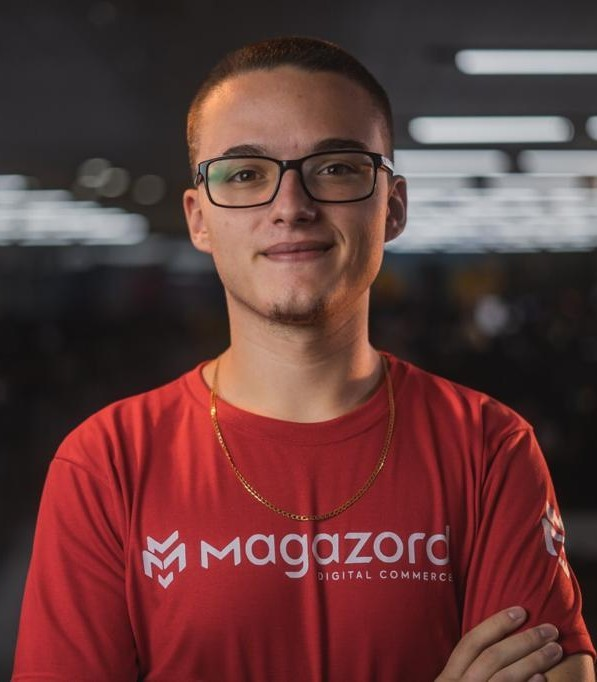
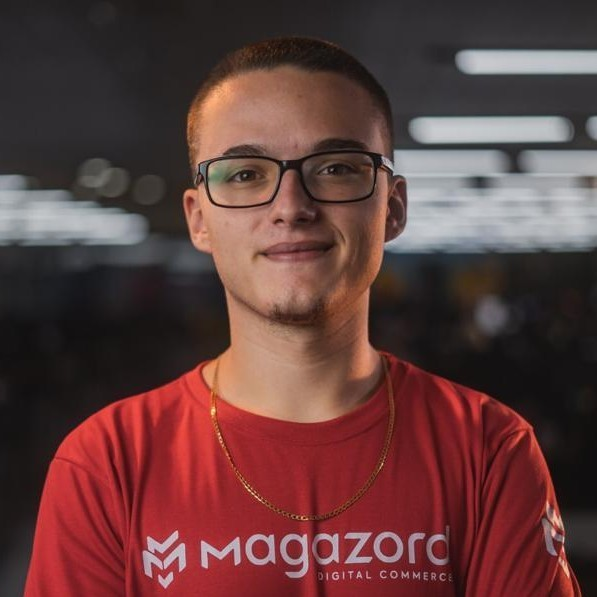
modified:   assets/css/index.css 	modified:   assets/img/euMaga.jpeg

diff --git a/assets/css/index.css b/assets/css/index.css
@@ -190,7 +190,7 @@ div#sobre {
     display: flex;
     justify-content: space-between;
     width: 100%;
-    height: 600px;
+    height: auto;
     background-color: var(--cor-fundo-claro);
     padding: 50px 200px;
     align-items: center;
@@ -198,17 +198,12 @@ div#sobre {
 
 div#sobre div.imgSobre {
     width: 400px;
-    max-height: 400px;
+    height: 400px;
     overflow: hidden;
     border-radius: 15px;
     box-shadow: 0px 0px 15px 5px rgba(0, 0, 0, 0.4);
     display: flex;
-    position: relative;
-    margin: auto 30px;
     object-fit: cover;
-    justify-content: center;
-    align-items: center;
-
 }
 
 div#sobre div.imgSobre:hover {
@@ -217,14 +212,13 @@ div#sobre div.imgSobre:hover {
 }
 
 div#sobre div.imgSobre img {
-    display: flex;
     width: 100%;
+    height: 100%;
 }
 
 div#sobre div.textSobre {
-    width: 60%;
+    max-width: 600px;
     padding: 10px;
-    margin: auto 30px;
 }
 
 div#sobre div.textSobre h2 {
@@ -505,7 +499,7 @@ div#contato div.textContato a.cardContato img {
     margin: 20px;
 }
 
-body hr.section_footer{
+body hr.section_footer {
     width: 80%;
     background-color: #0000007b;
     height: 1px;
@@ -515,7 +509,7 @@ body hr.section_footer{
     margin: auto;
 }
 
-footer{
+footer {
     width: 100%;
     height: 200px;
     top: 0;
@@ -525,12 +519,13 @@ footer{
     align-items: center;
     padding: 50px 200px;
 }
-footer img.logo{
+
+footer img.logo {
     width: 177.7px;
     height: 50px;
 }
 
-footer div.direitos p{
+footer div.direitos p {
     color: var(--cor-preto);
     font-family: var(--regular);
 }
@@ -544,6 +539,62 @@ footer div.direitos p{
 
 
 @media (max-width: 1100px) {
+
+
+    header,
+    div#home,
+    div#conhecimentos,
+    div#contato,
+    footer {
+        padding: 0 150px;
+    }
+
+    div#sobre{
+        flex-direction: column;
+        height: auto;
+        padding: 40px 150px;
+    }
+    div#sobre div.imgSobre{
+        width: 300px;
+        height: 300px;
+    }
+    div#sobre div.textSobre{
+        height: 280px;
+        width: 100%;
+        display: flex;
+        justify-content: center;
+        align-items: center;
+        flex-direction: column;
+    }
+
+    div#sobre div.textSobre p{
+        font-size: 2vh;
+
+    }
+
+    div#projetos{
+        padding: 25px 10px;
+        width: 90%;
+        margin: auto;
+    }
+
+
+
+
+
+
+
+    div#contato div.contentContato{
+        height: 400px;
+    }
+    lottie-player{
+
+        display: none;
+    }
+    div#contato div.contentContato div.textContato{
+        margin: 0;
+    }
+
     div#home {
         flex-direction: column;
         padding: 0;
